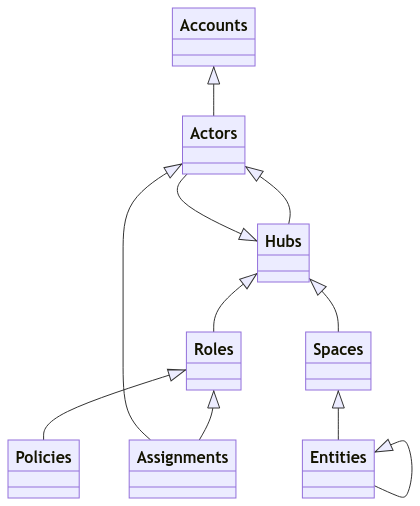
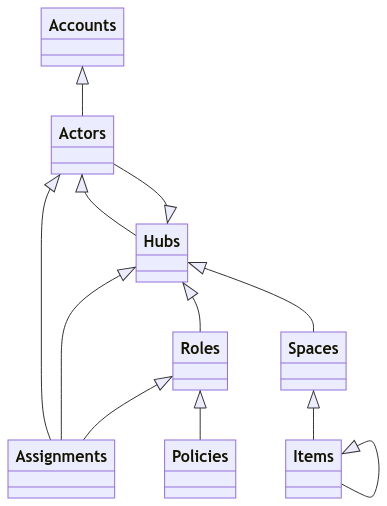
update data model diagram (#951)

diff --git a/src/lib/docs/data_model_diagram.ts b/src/lib/docs/data_model_diagram.ts
@@ -7,9 +7,10 @@ export const data_model_diagram = `classDiagram
   Actors <|-- Hubs
   Hubs <|-- Actors
   Hubs <|-- Roles
-  Roles <|-- Assignments
   Actors <|-- Assignments
+  Hubs <|-- Assignments
+  Roles <|-- Assignments
   Roles <|-- Policies
   Hubs <|-- Spaces
-  Spaces <|-- Entities
-  Entities <|-- Entities`;
+  Spaces <|-- Items
+  Items <|-- Items`;
